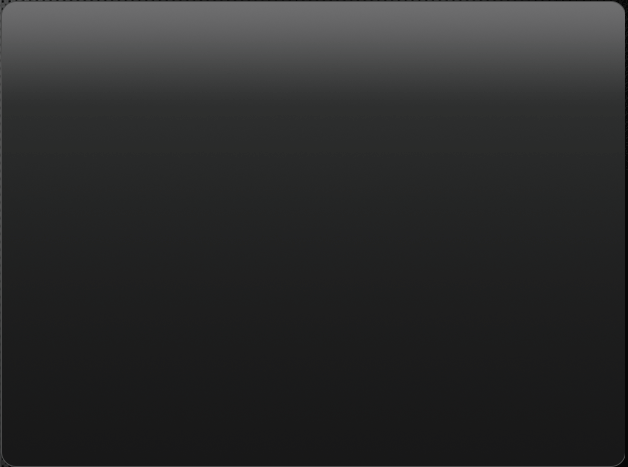
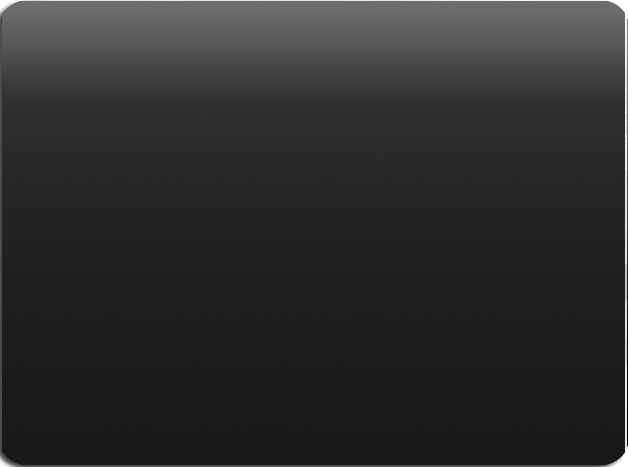
Finalized design

Changed region(s): [[0.0, 0.0, 1.0, 1.0]]

diff --git a/public/assets/style.css b/public/assets/style.css
@@ -8,53 +8,51 @@ background-color:#000;
 }
 
 #container {
-height: 540px;
-width: 650px;
-background: transparent url('/assets/images/metal_background.gif') no-repeat fixed 0px 43px;
-}
-
-#tab_row {
-height:25px;
-width:100%;
-background-color:#000;
-}
-
-div.tab {
-	float:left;
+min-height: 700px;
+max-height: 700px;
+min-width: 780px;
+max-width:780px;
+background: transparent url('/assets/images/metal_background_small.png') no-repeat fixed 0px 25px;
 }
 
 .wrapper {
-height: 515px;
-width: 650px;
 padding:0 15px;
 }
 
 .column_one {
-width:430px;
-height:515px;
+min-width:505px;
+width:505px;
+min-height:650px;
+height:650px;
 float:left;
 background-image: url('/assets/images/grey_background.png');
-background-size:95% 475px;
+background-size:100% 630px;
 background-repeat:no-repeat;
 }
 
 .column_one .column_text {
-	margin: 5px 10px;
+	margin: 5px 10px 10px 10px;
+	font-size:11pt !important;
+	overflow: auto;
 }
 
 .column_two {
-float:right;
-width:175px;
-height:515px;
+float:left;
+width:225px;
+height:650px;
+text-align:center;
 }
 
-.character_name {
-	
+.column_two .column_text {
+	font-size:14pt !important;
+	overflow: auto;
 }
 
 .field_title {
-	display:none;
-	
+	display:inline;
+	font-size:12pt;
+	color: #7eadb5;
+    border-bottom: 1px #666 dotted;
 }
 
 .field_content {
@@ -64,11 +62,97 @@ height:515px;
 
 div { display: block; }
 
+/*body :not(form) .column_two {
+	line-height: 2em;
+}*/
 
-h1 { font-variant: small-caps;}
+.column_two {
+line-height: 1.5em;
+}
 
 
-h1.tab.inactive {
+/* Hide Column Two on Certain Tabs */
+
+div#tabs-ooc_notes .column_two {
+	display:none;
+}
+
+
+
+/* Styling for Dual Textboxes on OOC Notes */
+
+textarea#property-rp_hooks, textarea#property-ooc {
+height: 200px;
+}
+
+/* Edit Mode */
+
+#container, #container.editmode {
+	max-height:695px;
+	min-height:695px;
+	min-width: 775px;
+    max-width: 775px;
+}
+
+.editmode .column_one, .column_one {
+min-width:490px;
+width:490px;
+/*min-height:670px;
+height:670px;*/
+min-height:580px;
+height:580px;
+float:left;
+background-image: url('/assets/images/grey_background.png');
+background-size:100% 580px;
+background-repeat:no-repeat;
+overflow:auto;
+}
+
+.editmode .column_two, .column_two {
+float:left;
+width:220px;
+/*height:670px;*/
+height:580px;
+text-align:center;
+overflow:auto;
+}
+
+#editbuttons {
+    float: left;
+    clear: both;
+    margin: 20px 0px 0px 25px;
+}
+
+/* Tabs */
+
+#tabs {
+height:25px;
+width:100%;
+background-color:#000;
+}
+
+.ui-widget-content, .ui-widget.ui-widget-content {
+background: none;
+border: transparent;
+}
+
+button.ui-dialog-titlebar-close { display:none; }
+
+.ui-tabs, .ui-tabs .ui-tabs-nav { padding:0px; }
+
+.ui-tabs .ui-tabs-panel .wrapper { padding: 0 15px; }
+
+#tabs  ul li a { font-variant: small-caps; width:100%;}
+
+.ui-tabs .ui-tabs-nav .ui-tabs-anchor { float:none; padding: 0.5em 2.5em;}
+
+.ui-state-default a, .ui-state-default a:link, .ui-state-default a:visited, a.ui-button, a:link.ui-button, a:visited.ui-button, .ui-button { color: #666; }
+
+li.ui-state-default.ui-state-active  > a, li.ui-state-default.ui-state-active > a:link, div#tabs > ul.ui-tabs-nav > li.ui-state-hover > a:hover  {
+color:#FFFFFF;
+}
+
+.ui-state-default, .ui-widget-content .ui-state-default, .ui-widget-header .ui-state-default, .ui-button, html .ui-button.ui-state-disabled:hover, html .ui-button.ui-state-disabled:active {
 	text-align: center;
     font-family: Arial, sans-serif;
     font-size: 1em;
@@ -76,18 +160,21 @@ h1.tab.inactive {
     height: 25px;
 	padding-top:5px;
     background: transparent url('/assets/images/tab_inactive.gif') no-repeat;
-	border: 1px solid rgba(215, 215, 215, .2);
+	border-style: none !important;
 }
 
-h1.tab.active {
+.ui-state-active, .ui-widget-content .ui-state-active, .ui-widget-header .ui-state-active, a.ui-button:active, .ui-button:active, .ui-button.ui-state-active:hover , .ui-state-default:hover {
 	text-align: center;
     font-family: Arial, sans-serif;
     font-size: 1em;
     width: 213px;
     height: 25px;
-    background: transparent url('/assets/images/tab_active.gif') no-repeat;
-	border: 1px solid rgba(215, 215, 215, .5);
+    background: transparent url('/assets/images/tab_active.gif') no-repeat !important;
+	border-style: none !important;
 }
+
+:focus { outline: none; }
+
 
 h2 {}
 
@@ -98,16 +185,22 @@ h3  {}
 /*  Single Column Styles & No Profile Styles*/
 
 #container.single_column, #container.no_profile {
-	background: transparent url('/assets/images/metal_background.gif') no-repeat fixed 0px 0px;
+	background: transparent url('/assets/images/metal_background_small.png') no-repeat fixed 0px 0px;
 }
 
 #container.single_column .column_one {
 	width:600px;
+	height:650px;
+}
+
+#container.no_profile .column_one {
+	height:650px;
 }
 
 #container.single_column .column_one .column_text, #container.no_profile .column_one .column_text {
 	margin:5px 15px;
 	width:90%;
+	overflow:auto;
 }
 
 #container.single_column .wrapper, #container.no_profile .wrapper {
@@ -123,4 +216,95 @@ h3  {}
 	float:left;
 	clear:both;
 	margin-top:-35px;
+}
+
+
+
+/* Form Styles */
+
+input[name="password"], input[name="pwnew"] {
+    background: #FFF;
+    border: transparent;
+    color: #000;
+}
+
+.ui-widget-content, .ui-widget.ui-widget-content {
+	border:1px solid #999;
+}
+
+.column_one .ui-widget-content, .column_one .ui-widget.ui-widget-content {
+	width:90%;
+}
+
+.column_two .ui-widget-content, .column_two .ui-widget.ui-widget-content {
+	width:65%;
+}
+
+.ui-button .ui-icon.ui-checkboxradio-icon {
+	background-image: url(https://code.jquery.com/ui/1.12.1/themes/dark-hive/images/ui-icons_222222_256x240.png);
+}
+
+form textarea {
+	height:450px;
+}
+
+
+/* Larger Screen CSS, just in case */
+
+@media screen and (min-width: 800px) {
+
+#container {
+min-height: 800px;
+max-height:1000px;
+min-width: 800px;
+max-width:1000px;
+background: transparent url('/assets/images/metal_background_large.png') no-repeat fixed 0px 25px;
+}
+
+#container.editmode {
+min-height: 700px;
+max-height: 900px;
+}
+
+#container.single_column, #container.no_profile {
+	background: transparent url('/assets/images/metal_background_large.png') no-repeat fixed 0px 0px;
+}
+
+.column_one {
+min-width:700px;
+min-height:800px;
+float:left;
+background-image: url('/assets/images/grey_background.png');
+background-size:100% 700px;
+background-repeat:no-repeat;
+}
+
+.column_two {
+float:left;
+width:235px;
+height:800px;
+text-align:center;
+}
+
+body :not(form) .column_two {
+line-height: 2em;
+}
+
+body form .column_two {
+line-height: 1.5em;
+}
+
+.column_one .column_text {
+	margin: 15px 20px;
+	overflow:auto;
+}
+
+.no_profile .column_two {
+	width:205px;
+}
+
+form textarea {
+	height:500px;
+}
+
 }

diff --git a/templates/profile.php b/templates/profile.php
@@ -1,13 +1,14 @@
-<div id="container"> <!-- Entire page wrap -->
-   <div id="tab_row"> <!-- All the header tabs -->
+<div id="container" <? if ($editMode): ?>class="editmode"<? endif ?>>
+
+ <!-- Entire page wrap -->
+   <div id="tabs" class="tabs"> <!-- All the header tabs -->
+   <ul>
 <? foreach ($structure as $section): ?>
-      <div class="tab" id="<?=$section['title']?>"> <!-- Individual section tab -->
-	      <h1 class="tab inactive"><?=$section['title']?></h1> <!-- Tab text -->
-	  </div>
+    <li><a href="#tabs-<?=$section['name']?>"><?=$section['title']?></a></li>
 <? endforeach ?>
-   </div> <!-- End tab row -->
+   </ul>
 <? foreach ($structure as $section): ?>
-     <div class="wrapper"> <!-- Body of the tab section -->
+     <div id="tabs-<?=$section['name']?>" class="wrapper"> <!-- Body of the tab section -->
 	     <div class="column_one"> <!-- First column; might be only column -->
 		   <div class="column_text">
            <? foreach ($section['texts'] as $prop): ?>
@@ -21,7 +22,7 @@
 		 <div class="column_two"> <!-- second column, if needed -->
 		   <div class="column_text">
 		    <div class="headshot"> <!-- Picture image.  needs some if/then logic for default. -->
-			   <img src="/assets/images/image_default.gif" />
+			   <img src="/assets/images/image_default.png" />
 			</div>
 		    <? foreach ($section['properties'] as $prop): ?>
                <div class="field_title <?=$prop['name']?>"><?=$prop['title']?></div>
@@ -30,13 +31,13 @@
 			</div> <!-- End column_text -->
          </div> <!-- End second column -->
 
-    </div> <!-- End Wrapper div -->
+    </div> <!-- End individual tab div / wrapper -->
 <? endforeach ?>
+   </div> <!-- End 'tabs' div -->
 <? if ($editMode): ?>
-<footer>
-    <hr />
+<div id="editbuttons">
     <button id="edit"></button>
-</footer>
+</div>
 <?=$this->renderTemplate('editorDialogs', ['name' => $this->getRequestedName()])?>
 <? endif ?>
 </div> <!-- End Container div -->

diff --git a/templates/noprofile.php b/templates/noprofile.php
@@ -11,12 +11,9 @@
 		 <div class="column_two"> <!-- second column, if needed -->
 		    <div class="column_text">
 		        <div class="headshot"> <!-- Picture image.  needs some if/then logic for default. -->
-			       <img src="/assets/images/image_noprofile.gif" />
+			       <img src="/assets/images/image_noprofile.png" />
 			    </div>
 	         </div> <!-- End column_text -->
 		 </div><!-- End Column 2 -->
-     <div id="footer"> <!-- Need to programmatically include this from a single file. -->
-	    <p>SWLRP Community Roleplay Mod Beta 0.1</p>
-	</div> <!-- End footer div -->
     </div> <!-- End Wrapper div -->
 </div> <!-- End Container div -->
